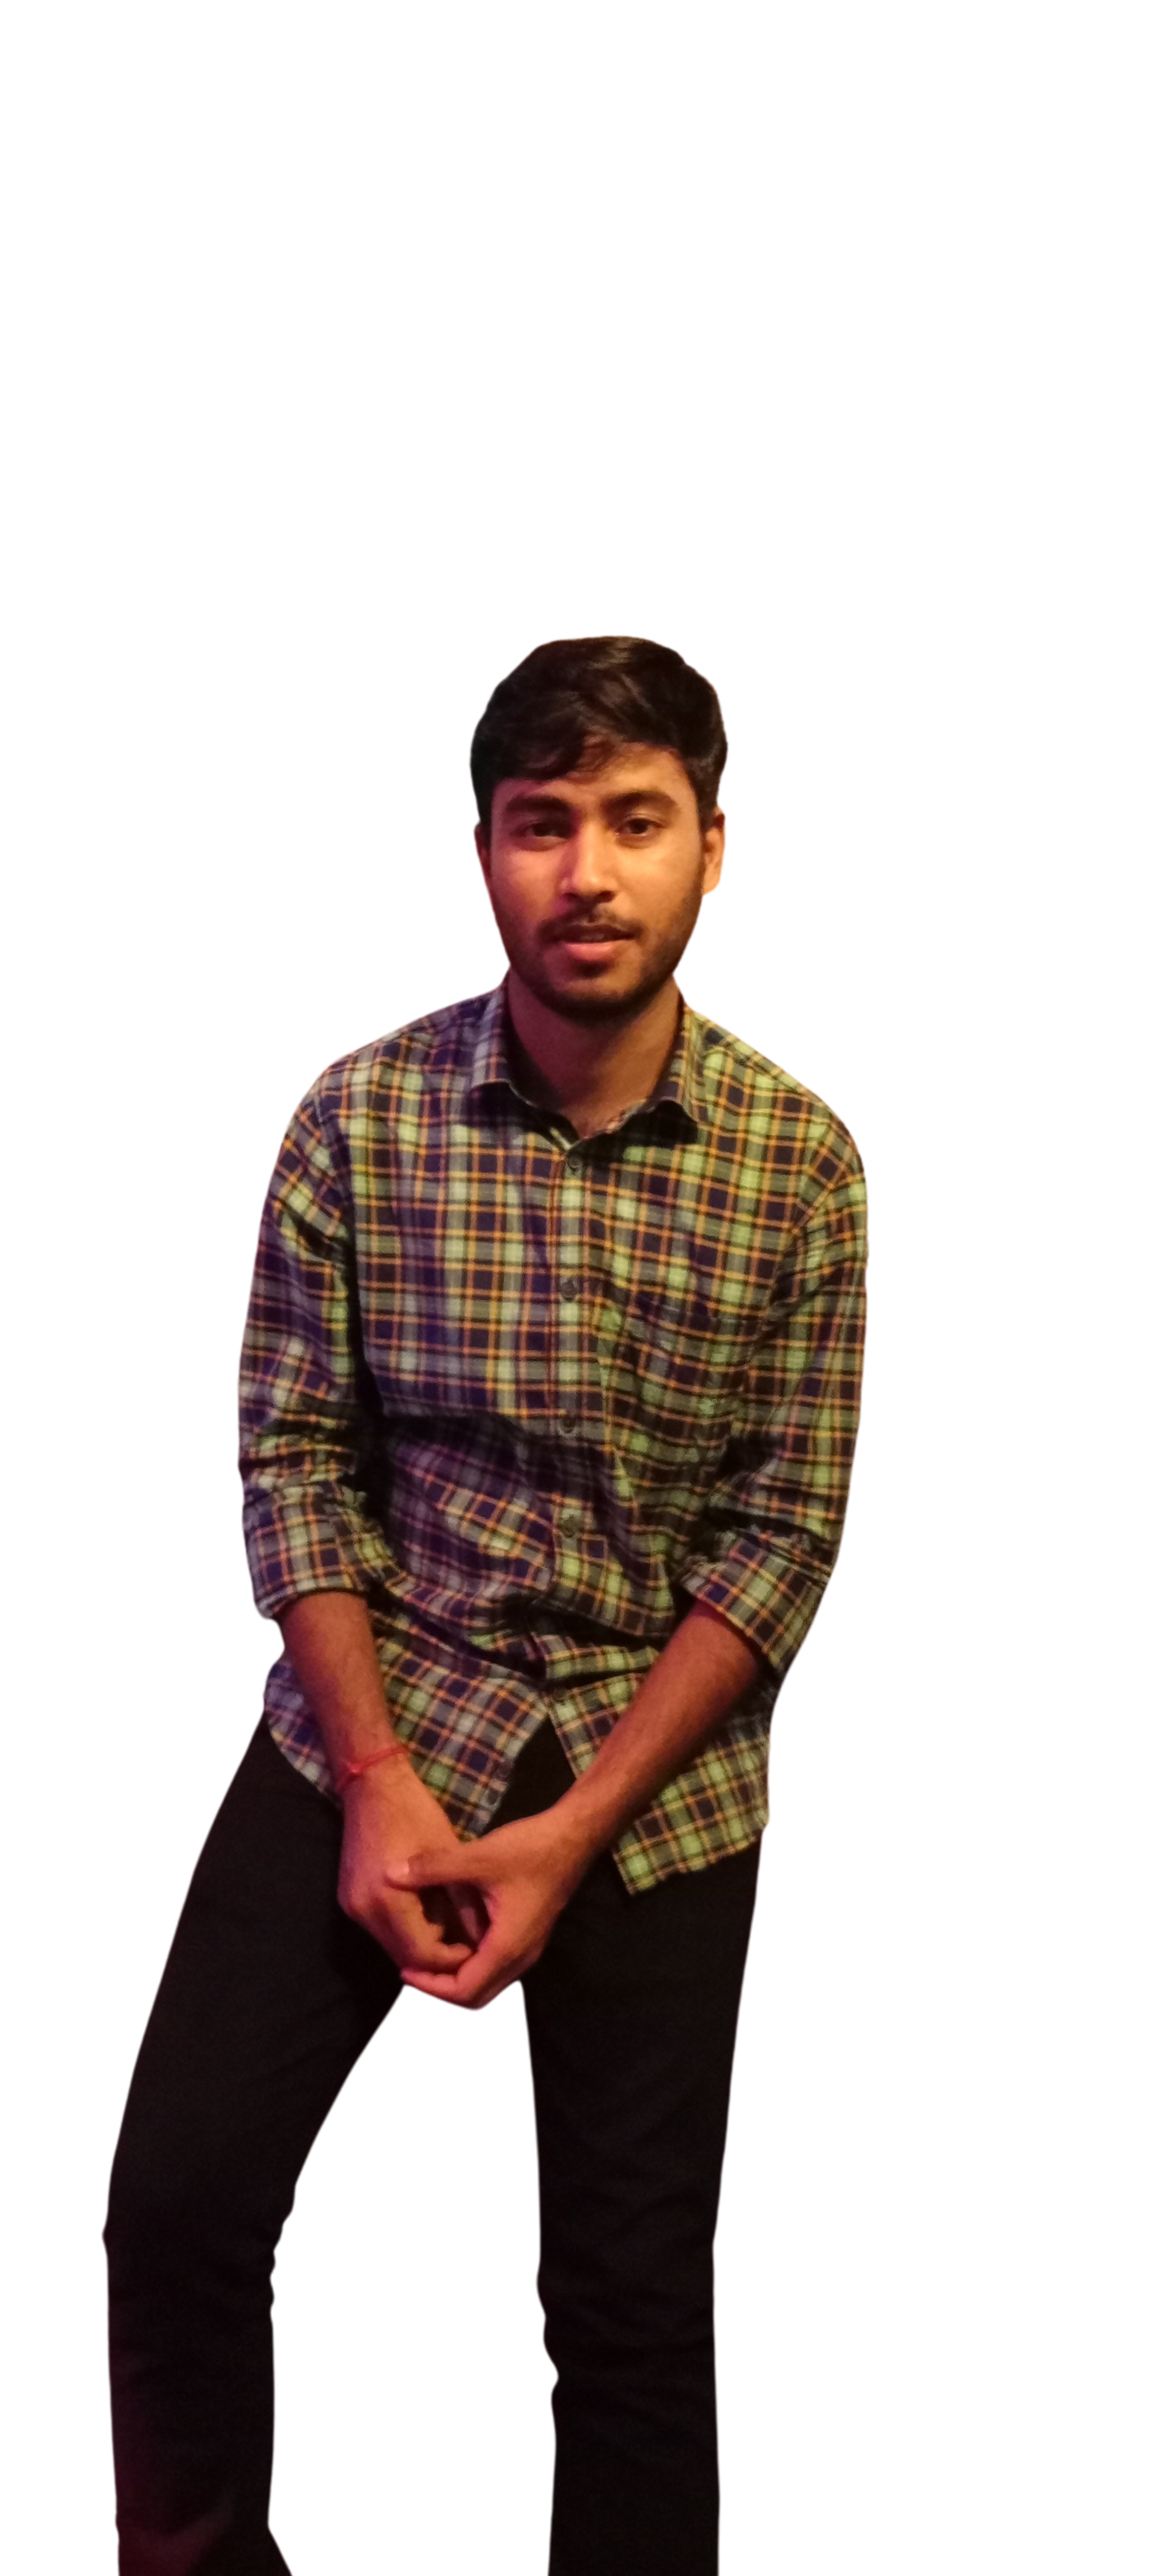
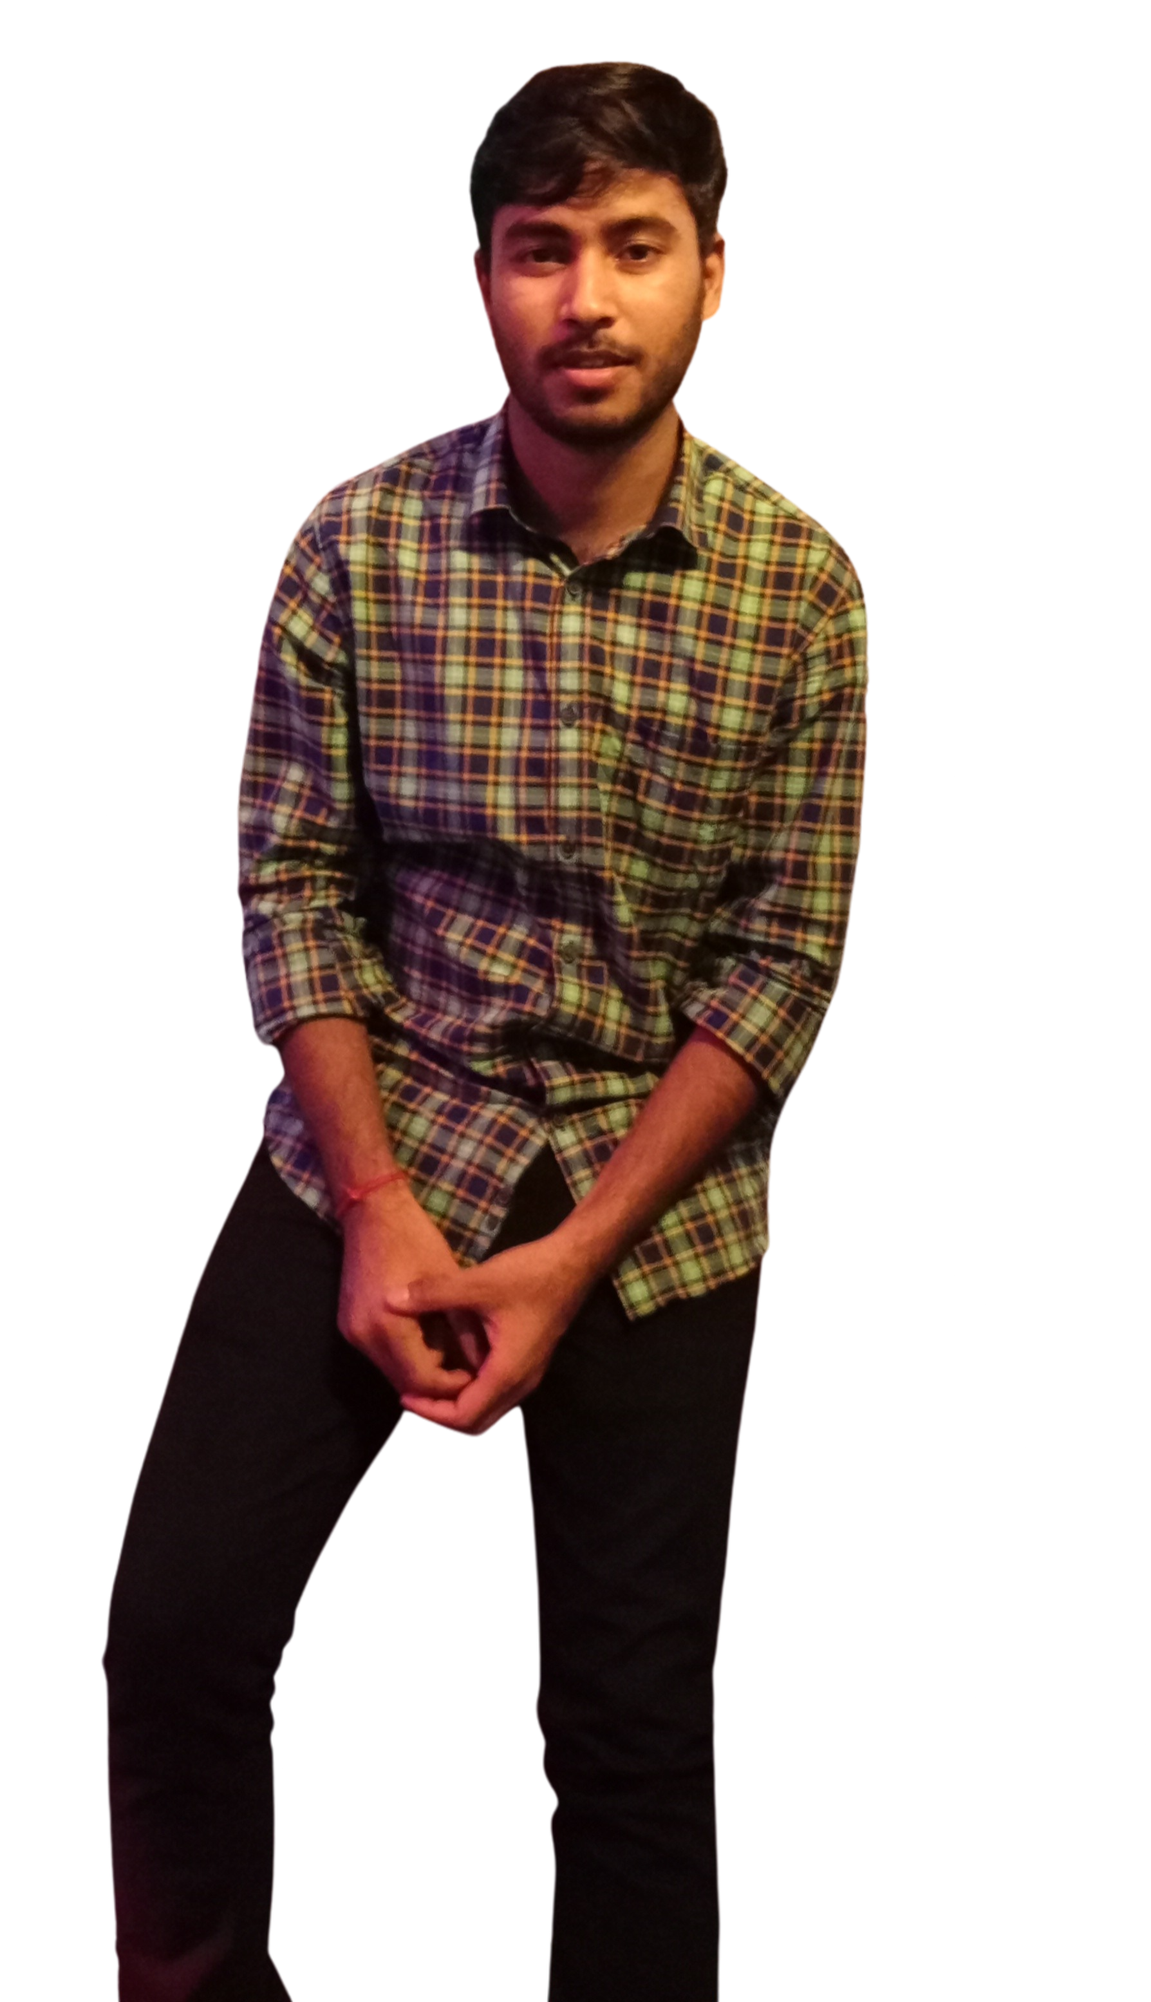
2

diff --git a/public/index.html b/public/index.html
@@ -6,9 +6,9 @@
     <meta name="viewport" content="width=device-width, initial-scale=1" />
     <meta name="theme-color" content="#000000" />
     <meta
-      name="description"
-      content="Michael Yeates - Frontend Web Developer who creates amazing digital experiences!"
-    />
+    name="description"
+    content="Brijesh Chauhan - Application Developer Engineer who creates amazing application experience and solves business problems!"
+  />
     <link
       rel="stylesheet"
       href="https://cdnjs.cloudflare.com/ajax/libs/font-awesome/6.2.1/css/all.min.css"

diff --git a/src/pages/landing/Landing.js b/src/pages/landing/Landing.js
@@ -17,7 +17,10 @@ const Landing = ({ name, tagline }) => {
       bottom: "0",
       // opacity: "0.3",
       mixBlendMode: "lighten",
-      height: "100%",
+      height: "90%",
+    
+    
+ 
     },
 
     textContainer: {
@@ -75,7 +78,7 @@ const Landing = ({ name, tagline }) => {
           transition={{ duration: 1, ease: "easeInOut" }}
           style={styles.landingImage}
           src={landingImage}
-          alt=""
+          alt="Brijesh Chauhan"
         />
       </div>
 

diff --git a/LICENSE.md b/LICENSE.md
@@ -1,6 +1,6 @@
 MIT License
 
-Copyright (c) 2023 Michael Yeates
+Copyright (c) 2023 Brijesh Kumar Chauhan
 
 Permission is hereby granted, free of charge, to any person obtaining a copy
 of this software and associated documentation files (the "Software"), to deal
